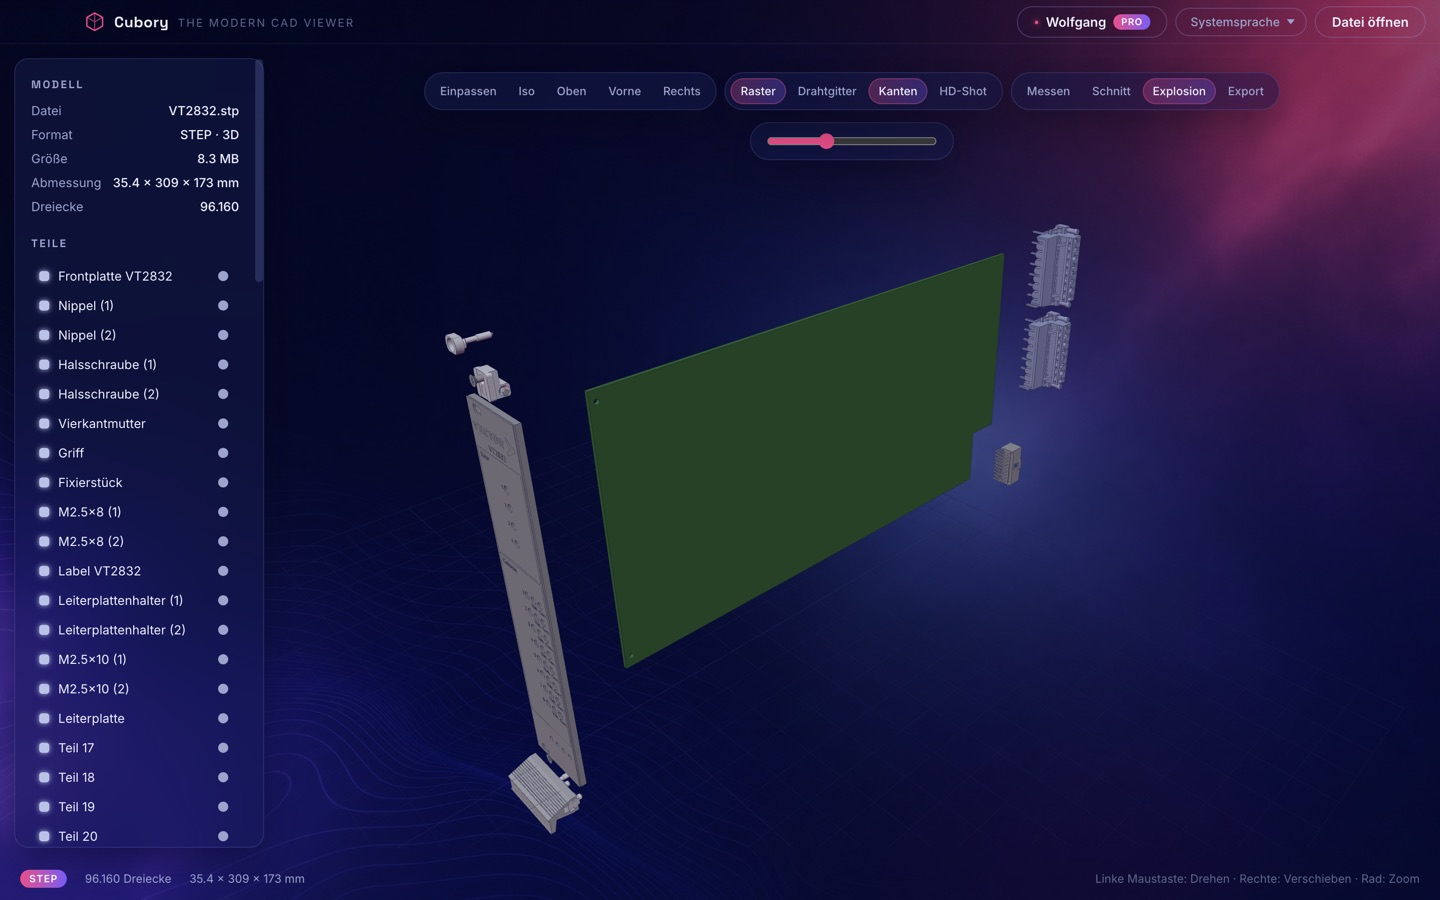
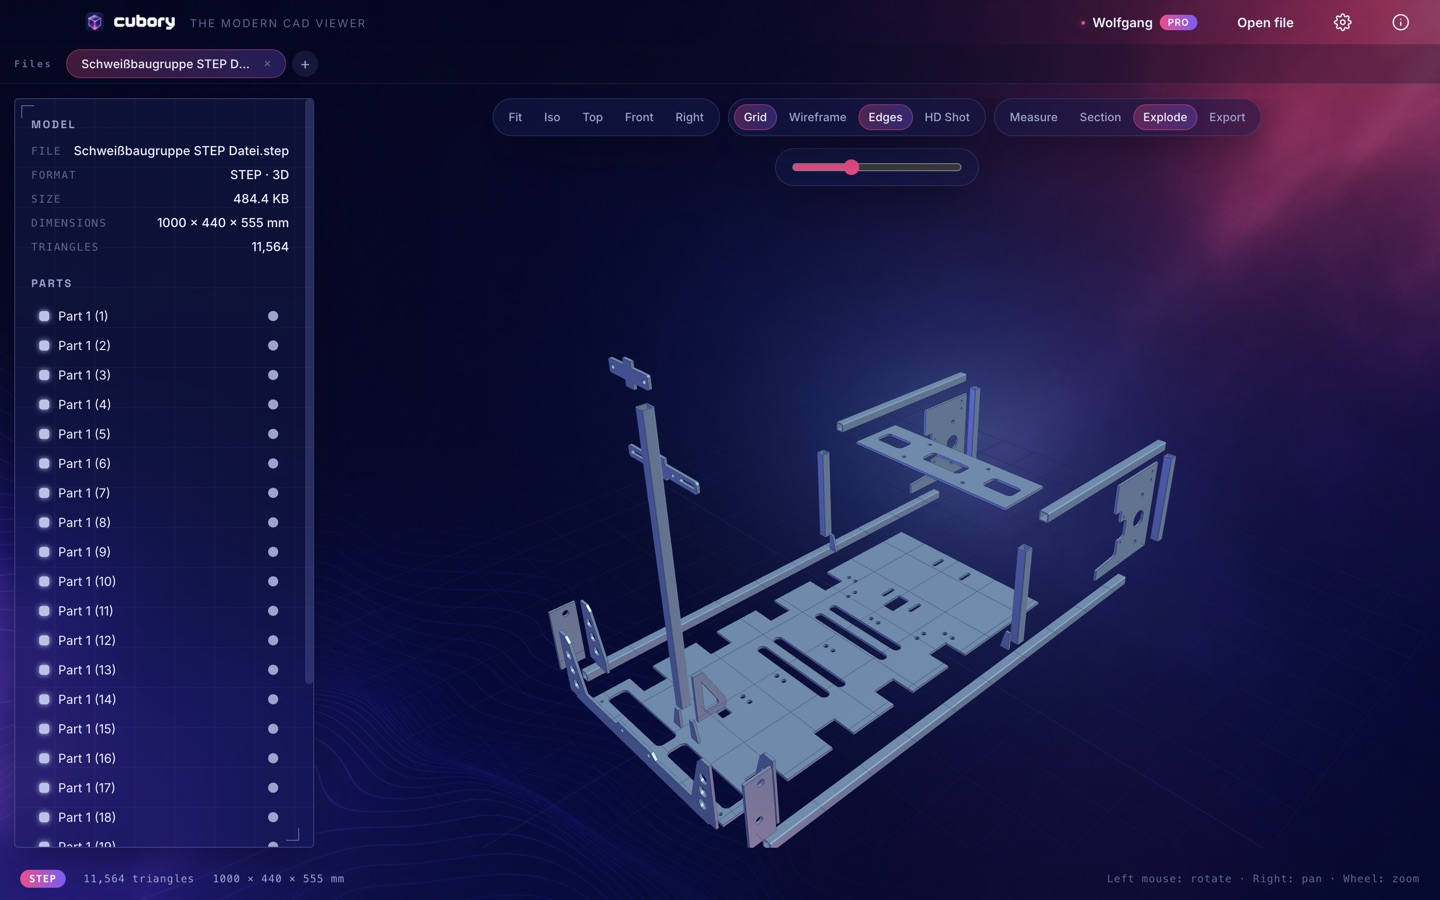
Startseite: Explosionsansicht mit der Schweißbaugruppe
Die Frames zeigten eine Platine, die Oberfläche auf Deutsch und noch das
alte App-Icon. Neu aufgenommen mit der STEP-Schweißbaugruppe, englischer
Oberfläche und um 90 Grad gedreht, damit der Rahmen längs im Bild liegt.

Der Pro-Zustand kam dabei über den echten IPC-Weg in die App, nicht über
Eingriffe ins DOM: die Aufnahmen zeigen damit genau das, was ein Pro-Nutzer
sieht.

Dabei aufgefallen und mitbehoben: die Beschriftung der Dateileiste stand als
content: 'DATEIEN' fest im CSS und blieb dadurch in jeder Sprache deutsch -
in der englischen Oberfläche gut sichtbar. Sie ist jetzt ein eigenes
Element mit Übersetzung in allen 20 Sprachen.

Der neue Test dazu prüft, dass jeder im Code benutzte Schlüssel im
Englischen existiert. Die bisherigen Prüfungen verglichen nur die Sprachen
gegeneinander und hätten einen Schlüssel, den es nirgends gibt, nie
bemerkt. Gegengeprüft: ein erfundener Schlüssel im Quelltext lässt den Test
fallen und nennt Datei und Namen.

diff --git a/test/i18n.test.js b/test/i18n.test.js
@@ -4,7 +4,7 @@
 // nicht (die Zahl fehlt dann in der Anzeige). Beides fällt sonst erst auf,
 // wenn jemand die App in genau dieser Sprache benutzt.
 import { describe, it, expect } from 'vitest';
-import { readdirSync } from 'node:fs';
+import { readdirSync, readFileSync, statSync } from 'node:fs';
 import { join, dirname, resolve } from 'node:path';
 import { fileURLToPath } from 'node:url';
 import en from '../src/strings/en.js';
@@ -42,5 +42,38 @@ describe('Übersetzungen', () => {
   it.each(codes)('%s: lässt keinen Text leer', (code) => {
     const leer = Object.entries(dicts[code]).filter(([, v]) => !String(v).trim());
     expect(leer.map(([k]) => k), `leere Texte in ${code}.js`).toEqual([]);
+  });
+
+  // Ein Schlüssel, den der Code benutzt, den es aber nirgends gibt, fällt den
+  // Vergleichen oben nicht auf: sie prüfen nur die Sprachen gegeneinander.
+  // Sichtbar wird er erst in der Oberfläche - dort steht dann der rohe
+  // Schlüsselname statt eines Textes.
+  it('benutzt keinen Schlüssel, den es im Englischen nicht gibt', () => {
+    const quellen = resolve(dirname(fileURLToPath(import.meta.url)), '..', 'src');
+    const dateien = [];
+    const sammeln = (ordner) => {
+      for (const eintrag of readdirSync(ordner)) {
+        const pfad = join(ordner, eintrag);
+        if (statSync(pfad).isDirectory()) {
+          if (eintrag !== 'strings') sammeln(pfad);
+        } else if (eintrag.endsWith('.js')) {
+          dateien.push(pfad);
+        }
+      }
+    };
+    sammeln(quellen);
+
+    const fehlend = [];
+    for (const datei of dateien) {
+      const text = readFileSync(datei, 'utf8');
+      // Nur vollständige Schlüssel: das abschließende , oder ) schließt
+      // zusammengesetzte Aufrufe wie t('browser.' + key) aus. Die und
+      // t(`account.plan.${kind}`) lassen sich statisch nicht auflösen und
+      // bleiben ungeprüft.
+      for (const m of text.matchAll(/\bt\(\s*'([^']+)'\s*[,)]/g)) {
+        if (!(m[1] in en)) fehlend.push(`${datei.split('/src/')[1]}: ${m[1]}`);
+      }
+    }
+    expect([...new Set(fehlend)]).toEqual([]);
   });
 });

diff --git a/src/main.js b/src/main.js
@@ -175,7 +175,8 @@ function renderTabbar() {
   persistSession();
   const bar = document.getElementById('tabbar');
   bar.hidden = tabs.length === 0;
-  bar.innerHTML = tabs.map((tab) => `
+  bar.innerHTML = `<span class="tabbar-label mono">${escapeHtml(t('tabs.label'))}</span>`
+    + tabs.map((tab) => `
     <div class="tab${tab.id === activeTabId ? ' on' : ''}" data-tab="${tab.id}" title="${escapeHtml(tab.path || tab.name)}">
       <span class="tab-name">${escapeHtml(tab.name)}</span>
       <button class="tab-close" data-close="${tab.id}">×</button>

diff --git a/src/style.css b/src/style.css
@@ -903,8 +903,9 @@ body.platform-win #titlebar { padding: 0 150px 0 16px; }
   background: rgba(7, 11, 34, 0.28);
   border-bottom: 1px solid rgba(160, 170, 255, 0.1);
 }
-#tabbar::before {
-  content: 'DATEIEN';
+/* Eigenes Element statt content: im CSS - dort stünde die Beschriftung fest
+   verdrahtet und bliebe in jeder Sprache deutsch. */
+.tabbar-label {
   font: 600 9.5px ui-monospace, Menlo, monospace;
   letter-spacing: 0.2em;
   color: var(--text-faint);

diff --git a/src/strings/el.js b/src/strings/el.js
@@ -1,6 +1,7 @@
 // el UI strings - GENERATED from English by scripts/translate-locales.mjs
 // (mistral-small via Ollama). Do not edit by hand; missing keys fall back to en.
 export default {
+  'tabs.label': 'Αρχεία',
   'app.open': 'Άνοιγμα αρχείου',
   'app.openTip': 'Άνοιγμα αρχείου (Cmd/Ctrl+O)',
   'hero.title1': 'Κάθε μοντέλο',

diff --git a/src/strings/uk.js b/src/strings/uk.js
@@ -1,6 +1,7 @@
 // uk UI strings - GENERATED from English by scripts/translate-locales.mjs
 // (mistral-small via Ollama). Do not edit by hand; missing keys fall back to en.
 export default {
+  'tabs.label': 'Файли',
   'app.open': 'Відкрий файл',
   'app.openTip': 'Відкрий файл (Cmd/Ctrl+O)',
   'hero.title1': 'Кожна модель',

diff --git a/src/strings/bg.js b/src/strings/bg.js
@@ -1,6 +1,7 @@
 // bg UI strings - GENERATED from English by scripts/translate-locales.mjs
 // (mistral-small via Ollama). Do not edit by hand; missing keys fall back to en.
 export default {
+  'tabs.label': 'Файлове',
   'app.open': 'Отвори файл',
   'app.openTip': 'Отвори файл (Cmd/Ctrl+O)',
   'hero.title1': 'Всеки модел',

diff --git a/src/strings/fr.js b/src/strings/fr.js
@@ -1,6 +1,7 @@
 // fr UI strings - GENERATED from English by scripts/translate-locales.mjs
 // (mistral-small via Ollama). Do not edit by hand; missing keys fall back to en.
 export default {
+  'tabs.label': 'Fichiers',
   'app.open': 'Ouvrir le fichier',
   'app.openTip': 'Ouvrir un fichier (Cmd/Ctrl+O)',
   'hero.title1': 'Tous les modèles',

diff --git a/src/strings/hu.js b/src/strings/hu.js
@@ -1,6 +1,7 @@
 // hu UI strings - GENERATED from English by scripts/translate-locales.mjs
 // (mistral-small via Ollama). Do not edit by hand; missing keys fall back to en.
 export default {
+  'tabs.label': 'Fájlok',
   'app.open': 'Fájl megnyitása',
   'app.openTip': 'Fájl megnyitása (Cmd/Ctrl+O)',
   'hero.title1': 'Minden modell',

diff --git a/src/strings/pt.js b/src/strings/pt.js
@@ -1,6 +1,7 @@
 // pt UI strings - GENERATED from English by scripts/translate-locales.mjs
 // (mistral-small via Ollama). Do not edit by hand; missing keys fall back to en.
 export default {
+  'tabs.label': 'Ficheiros',
   'app.open': 'Abrir ficheiro',
   'app.openTip': 'Abrir ficheiro (Cmd/Ctrl+O)',
   'hero.title1': 'Todos os modelos',

diff --git a/src/strings/ro.js b/src/strings/ro.js
@@ -1,6 +1,7 @@
 // ro UI strings - GENERATED from English by scripts/translate-locales.mjs
 // (mistral-small via Ollama). Do not edit by hand; missing keys fall back to en.
 export default {
+  'tabs.label': 'Fișiere',
   'app.open': 'Deschide fișier',
   'app.openTip': 'Deschide fișier (Cmd/Ctrl+O)',
   'hero.title1': 'Orice model',

diff --git a/src/strings/sk.js b/src/strings/sk.js
@@ -1,6 +1,7 @@
 // sk UI strings - GENERATED from English by scripts/translate-locales.mjs
 // (mistral-small via Ollama). Do not edit by hand; missing keys fall back to en.
 export default {
+  'tabs.label': 'Súbory',
   'app.open': 'Otvoriť súbor',
   'app.openTip': 'Otvoriť súbor (Cmd/Ctrl+O)',
   'hero.title1': 'Každý model',

diff --git a/src/strings/cs.js b/src/strings/cs.js
@@ -1,6 +1,7 @@
 // cs UI strings - GENERATED from English by scripts/translate-locales.mjs
 // (mistral-small via Ollama). Do not edit by hand; missing keys fall back to en.
 export default {
+  'tabs.label': 'Soubory',
   'app.open': 'Otevři soubor',
   'app.openTip': 'Otevři soubor (Cmd/Ctrl+O)',
   'hero.title1': 'Každý model',
